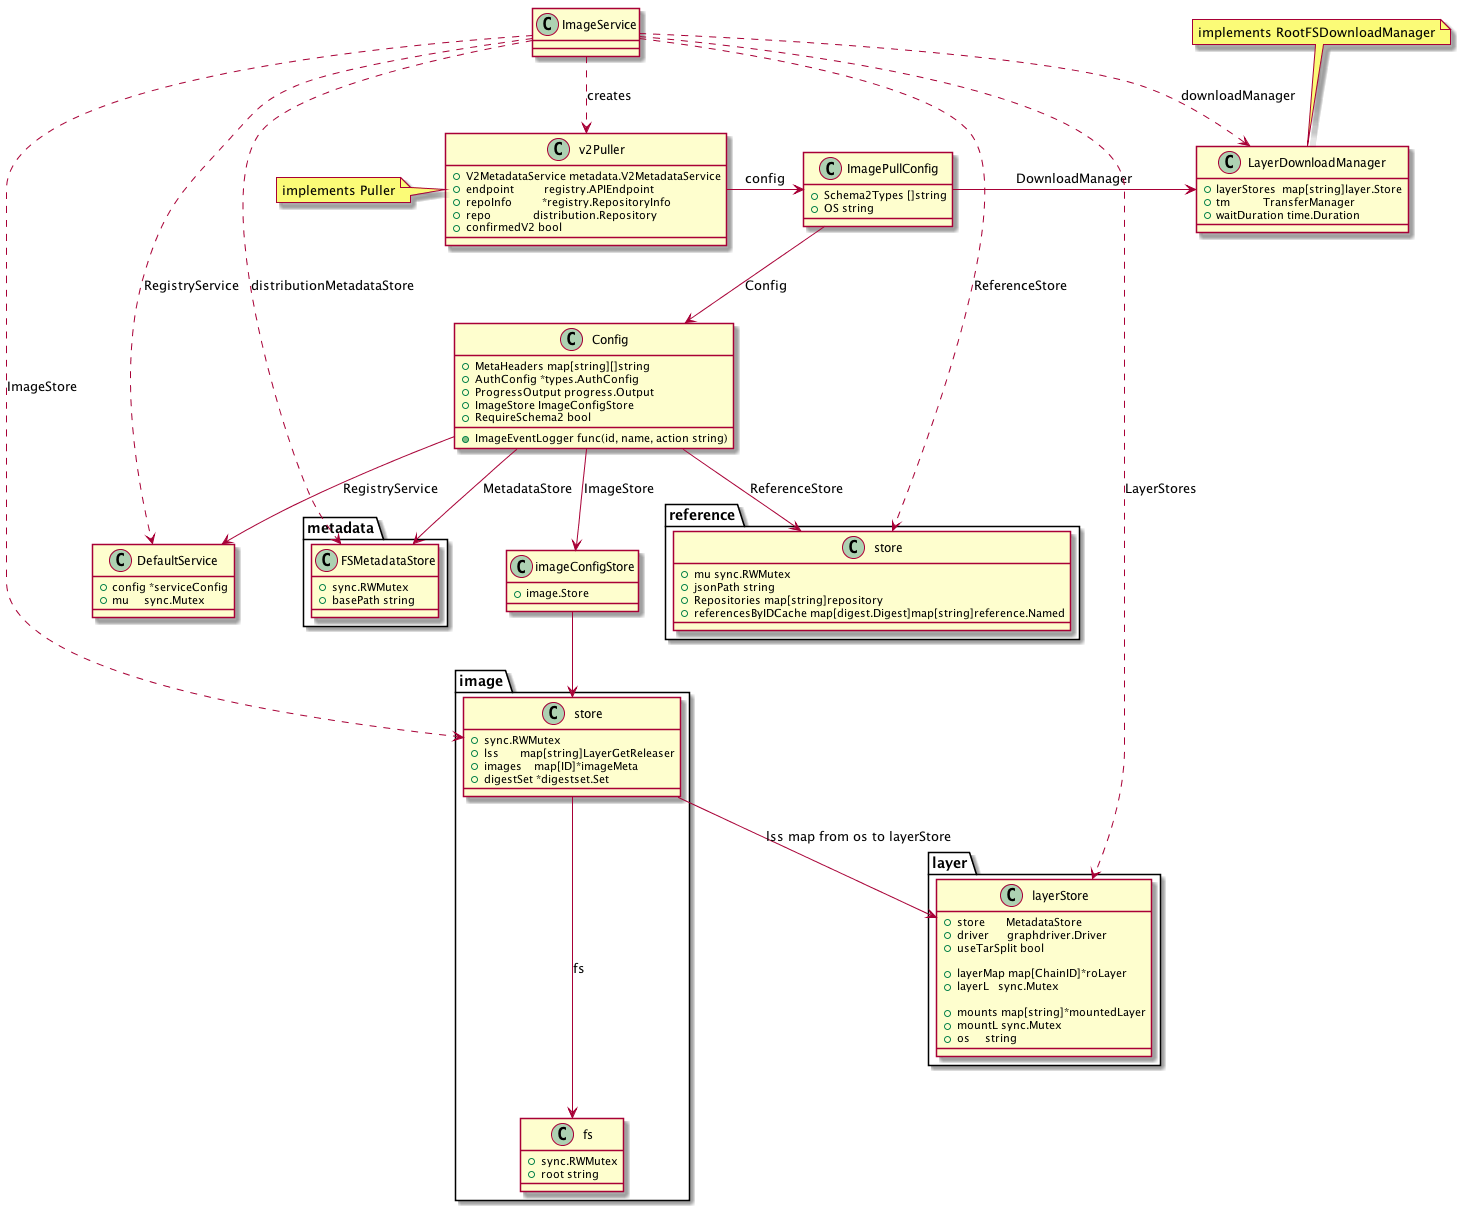
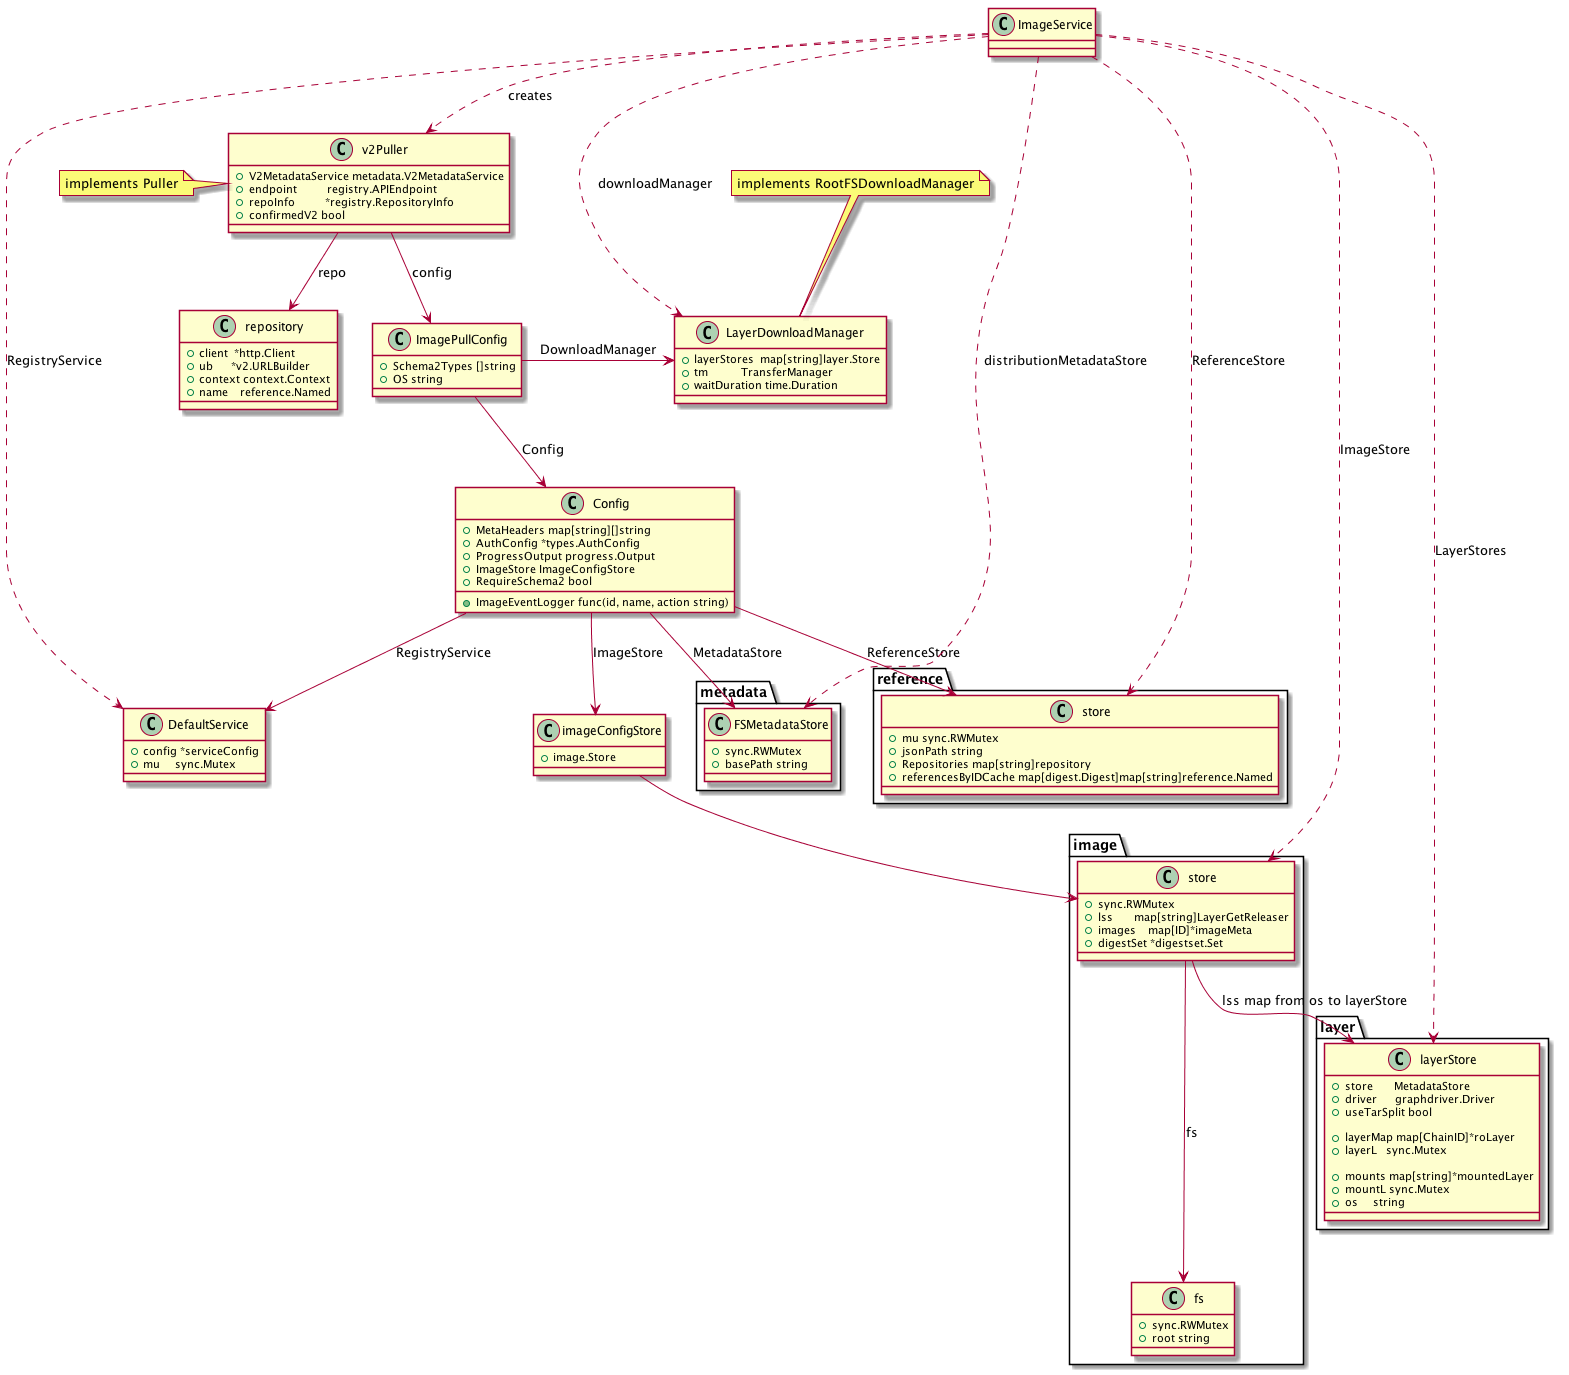
image management upgrade

diff --git a/docker/image-management.md b/docker/image-management.md
@@ -24,7 +24,7 @@ router.NewGetRoute("/images/json", r.getImagesJSON),
 
 ```go
 func (s *imageRouter) getImagesJSON(ctx context.Context, w http.ResponseWriter, r *http.Request, vars map[string]string) error {
-        // ...
+	// ...
 	images, err := s.backend.Images(imageFilters, httputils.BoolValue(r, "all"), false)
 	// ...
 	return httputils.WriteJSON(w, http.StatusOK, images)
@@ -41,12 +41,12 @@ func (i *ImageService) Images(imageFilters filters.Args, all bool, withExtraAttr
 		danglingOnly = false
 	)
 
-        // 验证 imageFilters 合法性
+	// 验证 imageFilters 合法性
 	if err := imageFilters.Validate(acceptedImageFilterTags); err != nil {
 		return nil, err
 	}
 
-        // ... 
+ 	// ... 
 
 	if danglingOnly {
 		allImages = i.imageStore.Heads() // 仅获取无 tag 镜像
@@ -54,7 +54,7 @@ func (i *ImageService) Images(imageFilters filters.Args, all bool, withExtraAttr
 		allImages = i.imageStore.Map() // 获取全部镜像
 	}
 
-        // before, since 的基准镜像获取 (略)
+	// before, since 的基准镜像获取 (略)
 
 	images := []*types.ImageSummary{}
 	var imagesMap map[*image.Image]*types.ImageSummary
@@ -63,8 +63,8 @@ func (i *ImageService) Images(imageFilters filters.Args, all bool, withExtraAttr
 	var allContainers []*container.Container
 
 	for id, img := range allImages {
-                // before, since 过滤 (代码略)
-                // label 过滤
+		// before, since 过滤 (代码略)
+ 		// label 过滤
 		if imageFilters.Contains("label") {
 			// ...
 			if !imageFilters.MatchKVList("label", img.Config.Labels) { // 对比镜像 label
@@ -101,11 +101,11 @@ func (i *ImageService) Images(imageFilters filters.Args, all bool, withExtraAttr
 
 		for _, ref := range i.referenceStore.References(id.Digest()) {
 			// reference 过滤
-                         // repo 信息
+			// repo 信息
 			if _, ok := ref.(reference.Canonical); ok {
 				newImage.RepoDigests = append(newImage.RepoDigests, reference.FamiliarString(ref))
 			}
-                         // tag 信息
+			// tag 信息
 			if _, ok := ref.(reference.NamedTagged); ok {
 				newImage.RepoTags = append(newImage.RepoTags, reference.FamiliarString(ref))
 			}
@@ -114,7 +114,7 @@ func (i *ImageService) Images(imageFilters filters.Args, all bool, withExtraAttr
 			if all || len(i.imageStore.Children(id)) == 0 {
 
 				// dangling, reference 过滤
-                                 // repo, tag 默认信息
+				// repo, tag 默认信息
 				newImage.RepoDigests = []string{"<none>@<none>"}
 				newImage.RepoTags = []string{"<none>:<none>"}
 			} else {
@@ -153,13 +153,13 @@ Pull 镜像流程如下：
 func (i *ImageService) PullImage(ctx context.Context, image, tag, os string, metaHeaders map[string][]string, authConfig *types.AuthConfig, outStream io.Writer) error {
 	image = strings.TrimSuffix(image, ":")
 
-        // 获取镜像的 Reference
+	// 获取镜像的 Reference
 	ref, err := reference.ParseNormalizedNamed(image)
 	if err != nil {
 		return errdefs.InvalidParameter(err)
 	}
 
-        // tag 不空，调整 Reference
+	// tag 不空，调整 Reference
 	if tag != "" {
 		var dgst digest.Digest
 		dgst, err = digest.Parse(tag)
@@ -180,12 +180,12 @@ func (i *ImageService) PullImage(ctx context.Context, image, tag, os string, met
 func (i *ImageService) pullImageWithReference(ctx context.Context, ref reference.Named, os string, metaHeaders map[string][]string, authConfig *types.AuthConfig, outStream io.Writer) error {
 	// 下载进度显示
 	progressChan := make(chan progress.Progress, 100)
-        // 写入结束 channel
+	// 写入结束 channel
 	writesDone := make(chan struct{})
 
 	ctx, cancelFunc := context.WithCancel(ctx)
 
-        // 启动 goroutine 显示下载进度，下载完成、失败后，关闭 writesDone
+	// 启动 goroutine 显示下载进度，下载完成、失败后，关闭 writesDone
 	go func() {
 		progressutils.WriteDistributionProgress(cancelFunc, outStream, progressChan)
 		close(writesDone)
@@ -236,14 +236,14 @@ endpoints, err := imagePullConfig.RegistryService.LookupPullEndpoints(reference.
 for _, endpoint := range endpoints {
 	// 检查 Schema 是否匹配，代码略
 
-        // 检查 https 设置是否匹配
+	// 检查 https 设置是否匹配
 	if endpoint.URL.Scheme != "https" {
 		if _, confirmedTLS := confirmedTLSRegistries[endpoint.URL.Host]; confirmedTLS {
 			continue
 		}
 	}
 
-        // 使用当前 endpoint，创建 puller 对象
+	// 使用当前 endpoint，创建 puller 对象
 	puller, err := newPuller(endpoint, repoInfo, imagePullConfig)
 	if err != nil {
 		lastErr = err
@@ -252,7 +252,7 @@ for _, endpoint := range endpoints {
 
 	// ...
 
-        // 执行 pull 操作
+  // 执行 pull 操作
 	if err := puller.Pull(ctx, ref, imagePullConfig.OS); err != nil {
 		fallback := false
 		select {
@@ -269,7 +269,7 @@ for _, endpoint := range endpoints {
 			}
 			continue
 		}
-                // 不需要 fallback，直接返回错误
+		// 不需要 fallback，直接返回错误
 		return TranslatePullError(err, ref)
 	}
 
@@ -282,10 +282,10 @@ for _, endpoint := range endpoints {
 
 ```go
 func (p *v2Puller) Pull(ctx context.Context, ref reference.Named, os string) (err error) {
-        // 创建 distribution.Repository 实例
+	// 创建 distribution.Repository 实例
 	p.repo, p.confirmedV2, err = NewV2Repository(ctx, p.repoInfo, p.endpoint, p.config.MetaHeaders, p.config.AuthConfig, "pull")
 	// ...
-        // 执行 pull 操作
+	// 执行 pull 操作
 	if err = p.pullV2Repository(ctx, ref, os); err != nil {
 		if _, ok := err.(fallbackError); ok {
 			return err
@@ -301,6 +301,55 @@ func (p *v2Puller) Pull(ctx context.Context, ref reference.Named, os string) (er
 	return err
 }
 ```
+
+在 NewV2Repository 中设置 http 相关内容：
+
+```
+func NewV2Repository(ctx context.Context, repoInfo *registry.RepositoryInfo, endpoint registry.APIEndpoint, metaHeaders http.Header, authConfig *types.AuthConfig, actions ...string) (repo distribution.Repository, foundVersion bool, err error) {
+	// 设置 Dialer
+	direct := &net.Dialer{
+		Timeout:   30 * time.Second,
+		KeepAlive: 30 * time.Second,
+		DualStack: true,
+	}
+	// 设置 transport
+	base := &http.Transport{
+		Proxy:               http.ProxyFromEnvironment,
+		Dial:                direct.Dial,
+		TLSHandshakeTimeout: 10 * time.Second,
+		TLSClientConfig:     endpoint.TLSConfig,
+		DisableKeepAlives: true,
+	}
+	// 设置代理 dialer
+	proxyDialer, err := sockets.DialerFromEnvironment(direct)
+	if err == nil {
+		base.Dial = proxyDialer.Dial
+	}
+
+	modifiers := registry.Headers(dockerversion.DockerUserAgent(ctx), metaHeaders)
+	authTransport := transport.NewTransport(base, modifiers...)
+
+	// ...
+
+	tr := transport.NewTransport(base, modifiers...)
+
+	// ...
+
+	repo, err = client.NewRepository(ctx, repoNameRef, endpoint.URL.String(), tr)
+	if err != nil {
+		err = fallbackError{
+			err:         err,
+			confirmedV2: foundVersion,
+			transportOK: true,
+		}
+	}
+	return
+}
+```
+
+设置完成后结构如下图：
+
+![reposity](./images/reposity.png)
 
 在 pullV2Repository 中，根据 tag 下载对应镜像：
 
